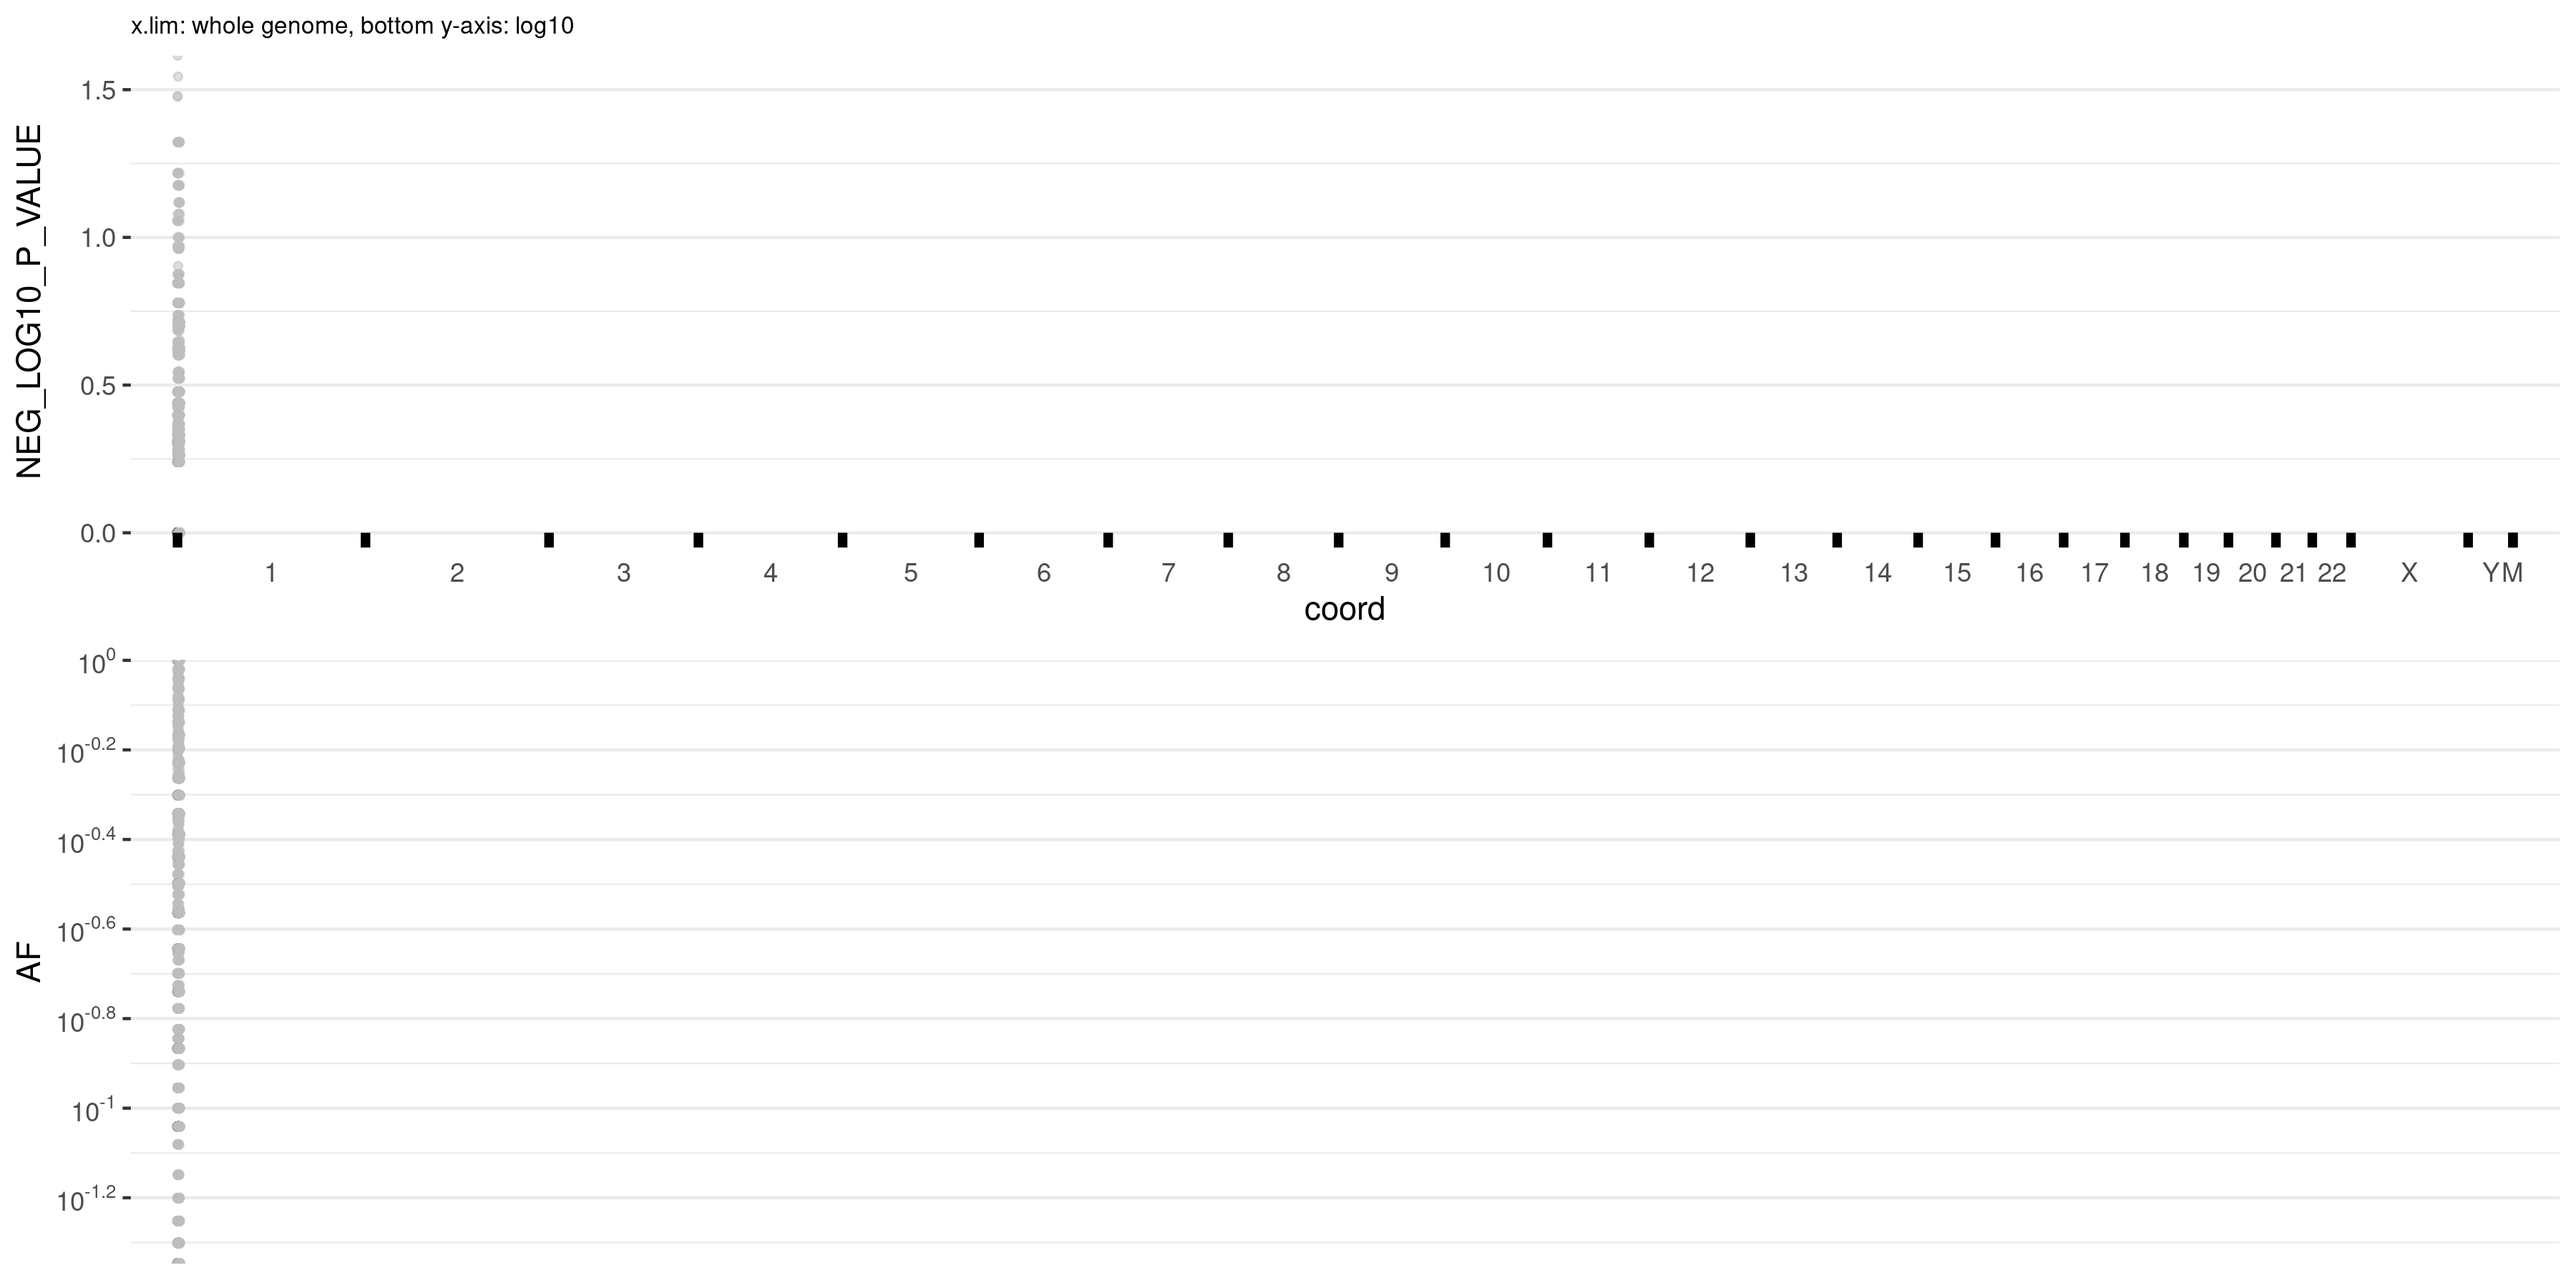
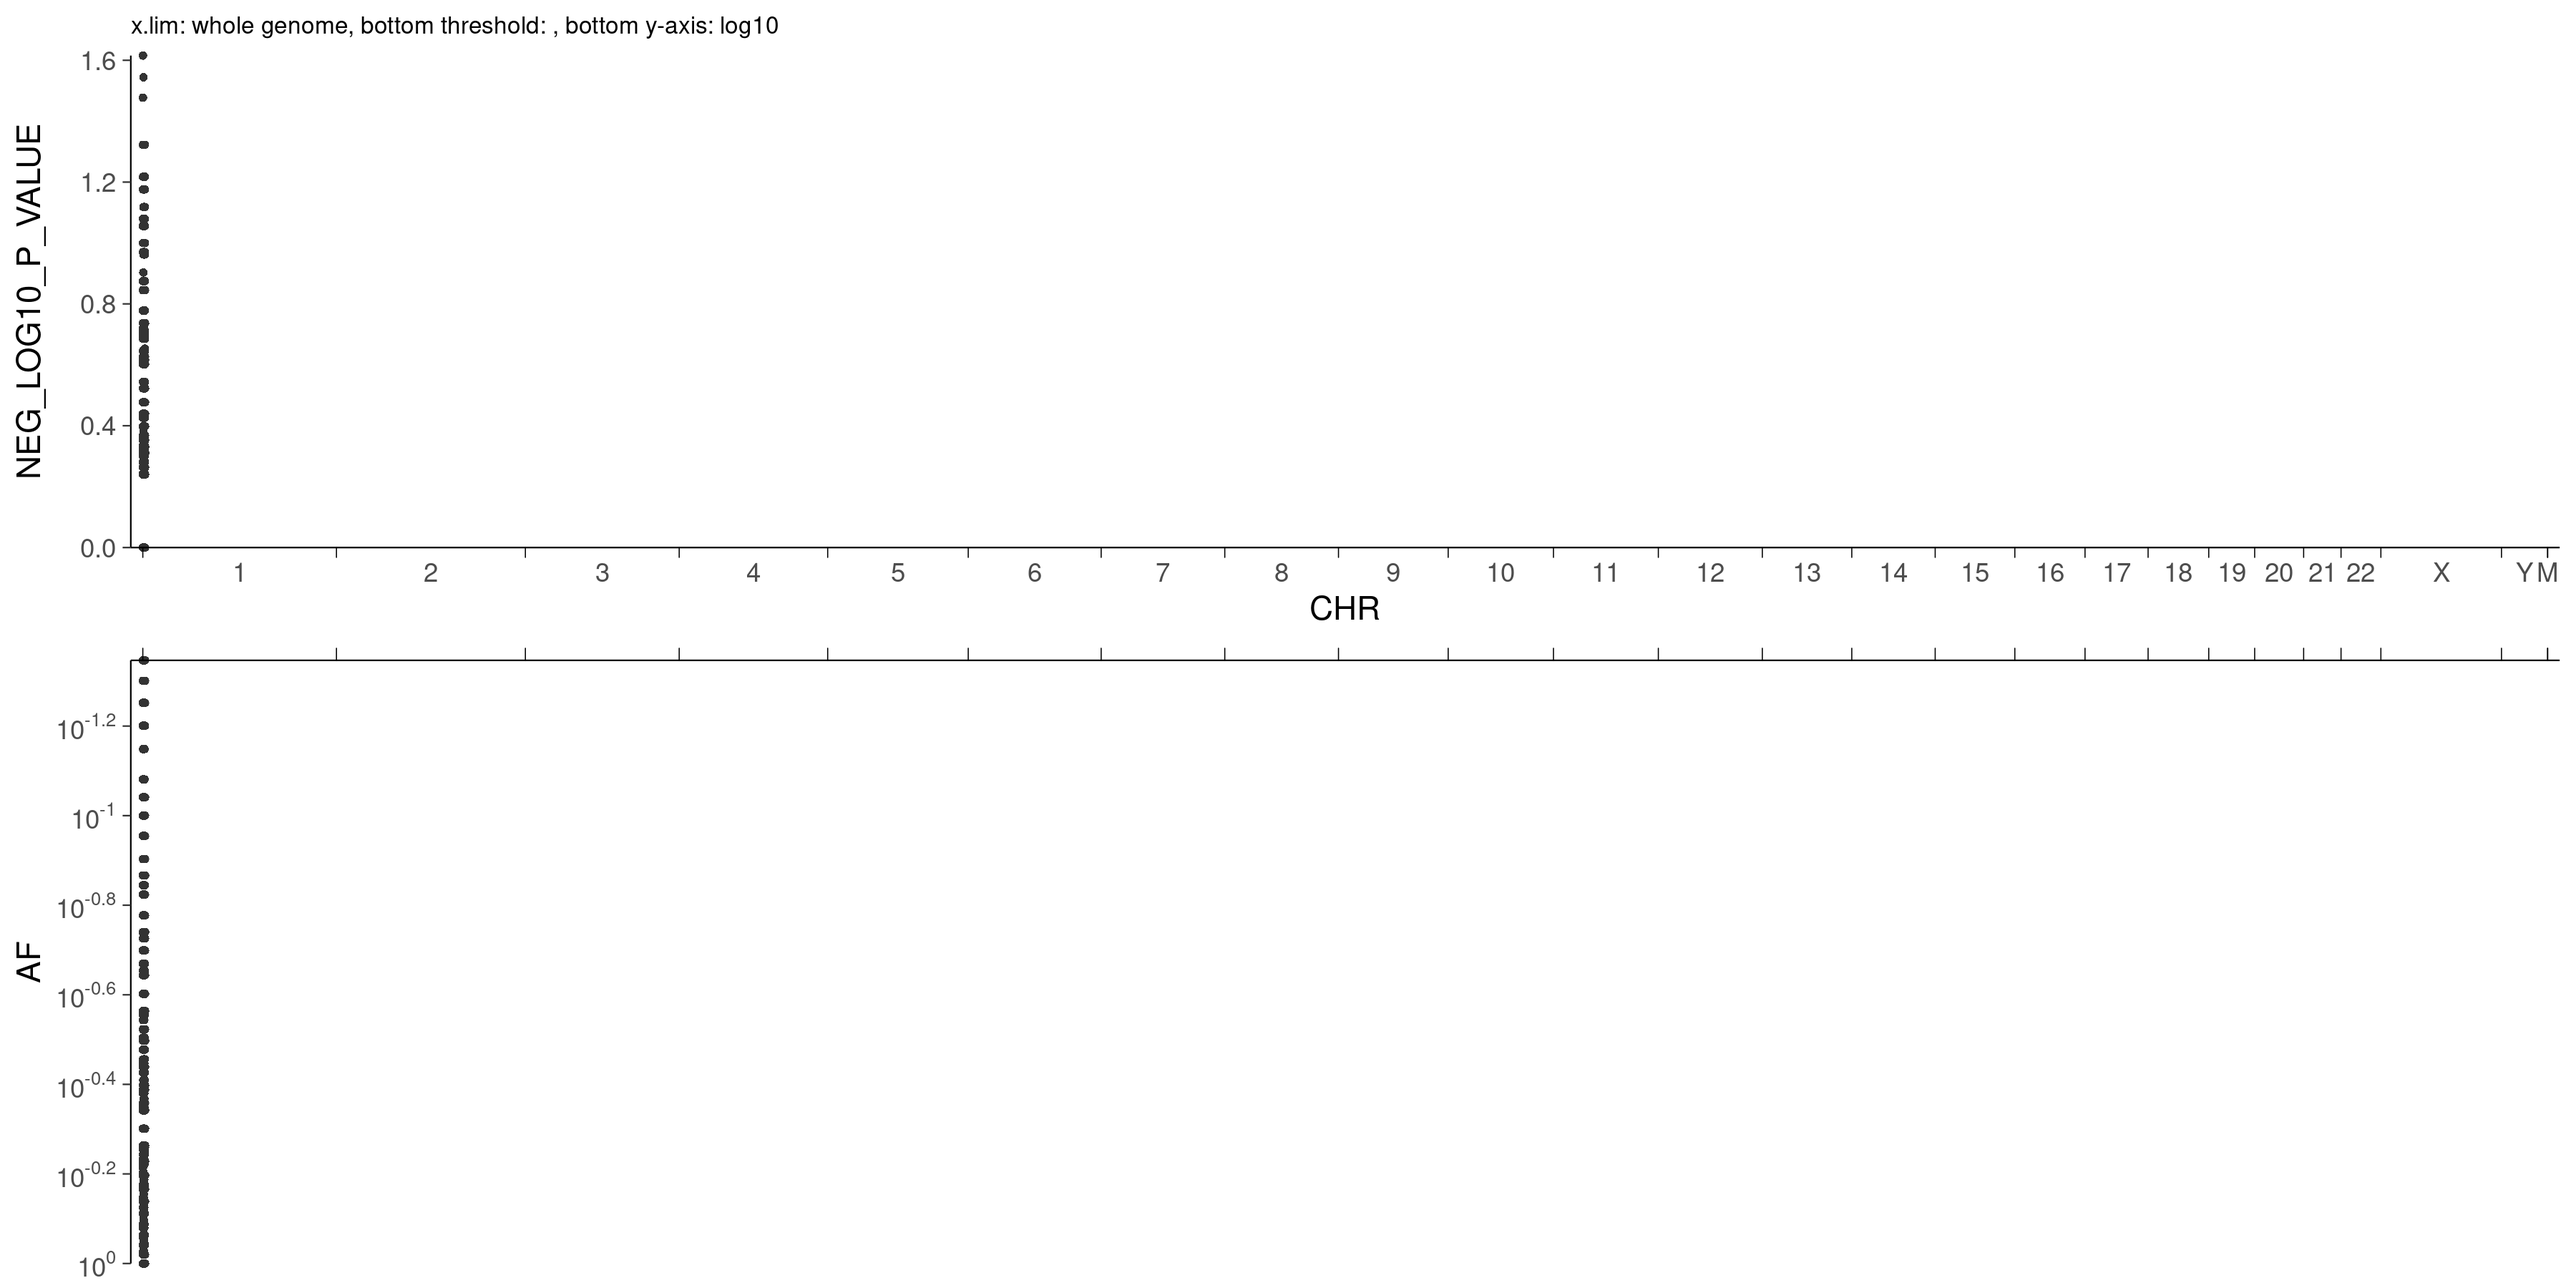
release v2.4:miamiplot: new features added and bug removed

diff --git a/README.md b/README.md
@@ -188,15 +188,22 @@ echo -e '
 fisher="${PWD}/dataset/res_fisher.tsv.gz"
 chr="${PWD}/dataset/hg19_grch37p5_chr_size_cumul.txt"
 x_lim="chr1"
-bottom_y_column="AF"
-color_column="NULL"
-y_lim1="NULL"
-y_lim2="NULL"
+vgrid <- "TRUE"
+top.y.column <- "NEG_LOG10_P_VALUE"
+bottom.y.column <- "AF"
+color.column <- "NULL"
+dot.border.color <- "white"
+y.lim1 <- "NULL"
+y.lim2 <- "NULL"
+reverse1 <- "FALSE"
+reverse2 <- "TRUE"
+y.threshold1 <- "1.2"
+y.threshold2 <- "0.5"
 y_log1="FALSE"
 y_log2="TRUE"
 cute="https://gitlab.pasteur.fr/gmillot/cute_little_R_functions/-/raw/v11.4.0/cute_little_R_functions.R"
 
-Rscript ${PWD}/bin/miami.R ${fisher} ${chr} "${x_lim}" "${bottom_y_column}" "${color_column}" "${y_lim1}" "${y_lim2}" "${y_log1}" "${y_log2}" "${cute}" "miami_report.txt"
+Rscript ${PWD}/bin/miami.R ${fisher} ${chr} "${x_lim}" "${vgrid}" "${top_y_column}" "${bottom_y_column}" "${color_column}" "${dot_border_color}" "${y_lim1}" "${y_lim2}" "${y_reverse1}" "${y_reverse2}" "${y_threshold1}" "${y_threshold2}" "${y_log1}" "${y_log2}" "${cute}" "miami_report.txt"
 ' | sudo docker run --workdir /tmp/ -i --mount "type=bind,src=${PWD},dst=/tmp/" --entrypoint bash gmillot/r_v4.1.2_extended_v2.1:gitlab_v8.8
 ```
 
@@ -284,6 +291,11 @@ Gitlab developers
 
 <br /><br />
 ## WHAT'S NEW IN
+
+
+### v2.4
+
+miamiplot: new features added and bug removed
 
 
 ### v2.3
